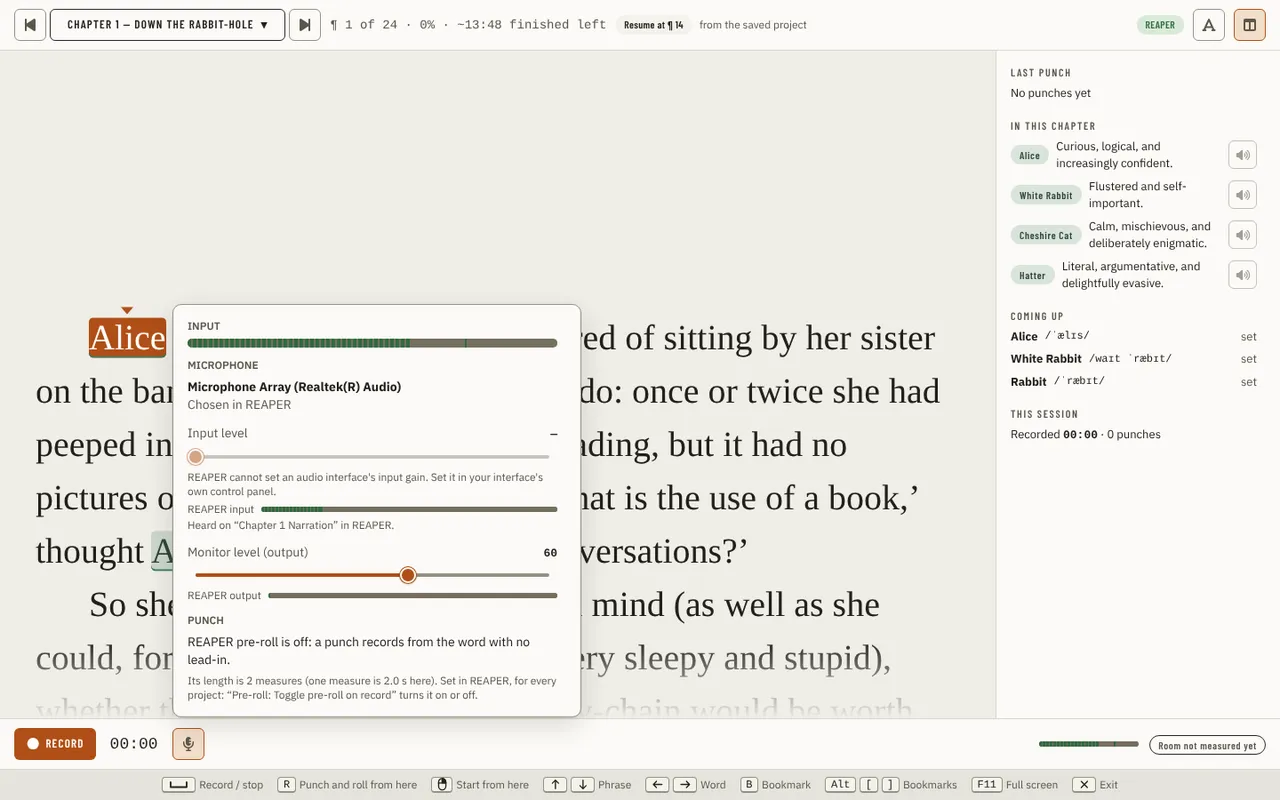
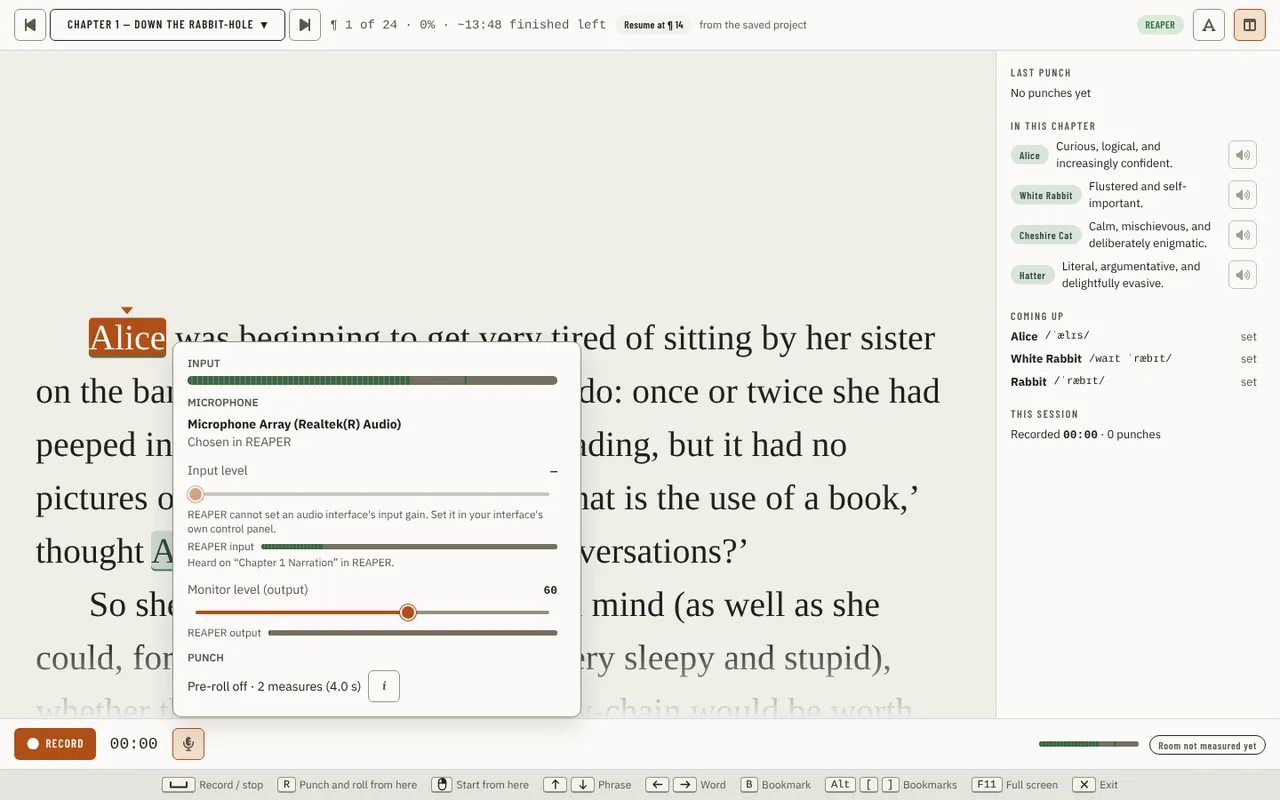
feat(booth): the Punch pre-roll is one short line, with the explanation behind an info button (#2323)

Changed region(s): [[0.125, 0.4062, 0.4688, 0.875]]

diff --git a/src/studio/ui/src/components/booth/frame/punchPreroll.test.tsx b/src/studio/ui/src/components/booth/frame/punchPreroll.test.tsx
@@ -93,21 +93,39 @@ describe('the Levels menu punch pre-roll', () => {
 describe("the Levels menu punch pre-roll is REAPER's own when REAPER has one", () => {
   const on: DawCapabilitySupport = { level: 'supported', available: true };
 
-  it("shows REAPER's pre-roll, off, with its length, where to set it, and never the app's seconds", async () => {
+  it("shows REAPER's pre-roll in one short line, off, with its length, and never the app's seconds", async () => {
     const { save, open } = menu('daw', {}, on);
     await open();
-    expect(await screen.findByText('REAPER pre-roll is off: a punch records from the word with no lead-in.')).toBeTruthy();
-    expect(screen.getByText(/Its length is 2 measures \(one measure is 2\.0 s here\)/)).toBeTruthy();
-    expect(screen.getByText(/“Pre-roll: Toggle pre-roll on record” turns it on or off/)).toBeTruthy();
+    expect(await screen.findByText('Pre-roll off · 2 measures (4.0 s)')).toBeTruthy();
+    expect(screen.queryByText(/a punch records from the word/)).toBeNull();
     expect(screen.queryByRole('textbox')).toBeNull();
     expect(save).not.toHaveBeenCalled();
   });
 
-  it('shows a pre-roll REAPER plays before recording, from the bar line', async () => {
+  it('keeps the explanation behind an info button that the keyboard opens and closes', async () => {
+    const { open } = menu('daw', {}, on);
+    await open();
+    const info = await screen.findByRole('button', { name: 'About REAPER’s pre-roll' });
+    expect(info.getAttribute('aria-expanded')).toBe('false');
+    expect(screen.queryByText(/One measure is 2\.0 s at the edit cursor/)).toBeNull();
+    while (document.activeElement !== info && document.activeElement !== document.body) await userEvent.tab();
+    expect(document.activeElement).toBe(info);
+    await userEvent.keyboard('{Enter}');
+    expect(info.getAttribute('aria-expanded')).toBe('true');
+    const note = screen.getByText(/One measure is 2\.0 s at the edit cursor\./);
+    expect(note.textContent).toContain('Off, a punch records from the word with no lead-in.');
+    expect(note.textContent).toContain('“Pre-roll: Toggle pre-roll on record”');
+    expect(document.getElementById(info.getAttribute('aria-controls') ?? '')?.contains(note)).toBe(true);
+    await userEvent.keyboard('{Enter}');
+    expect(screen.queryByText(/One measure is 2\.0 s at the edit cursor/)).toBeNull();
+  });
+
+  it('shows a pre-roll REAPER plays before recording, with its length in seconds', async () => {
     const read = vi.fn(async () => ({ ok: true, onRecord: true, measures: 1, measureSeconds: 1.8, message: '' }));
     const { open } = menu('daw', { dawPunchPreroll: read } as Partial<NarrationApi>, on);
     await open();
-    expect(await screen.findByText('REAPER pre-roll: 1 measure (one measure is 1.8 s here)')).toBeTruthy();
+    expect(await screen.findByText('Pre-roll on · 1 measure (1.8 s)')).toBeTruthy();
+    await userEvent.click(screen.getByRole('button', { name: 'About REAPER’s pre-roll' }));
     expect(screen.getByText(/plays from the bar line 1 measure or more before the word, then records from the word/)).toBeTruthy();
   });
 
@@ -116,10 +134,17 @@ describe("the Levels menu punch pre-roll is REAPER's own when REAPER has one", (
     const read = vi.fn(async () => ({ ok: true, onRecord, measures: 2, measureSeconds: 2, message: '' }));
     const { open } = menu('daw', { dawPunchPreroll: read } as Partial<NarrationApi>, on);
     await open();
-    await screen.findByText(/pre-roll is off/);
+    await screen.findByText(/^Pre-roll off/);
     onRecord = true;
     fireEvent.focus(window);
-    expect(await screen.findByText('REAPER pre-roll: 2 measures (one measure is 2.0 s here)')).toBeTruthy();
+    expect(await screen.findByText('Pre-roll on · 2 measures (4.0 s)')).toBeTruthy();
+  });
+
+  it('shows a fractional length and a long measure as they are', async () => {
+    const read = vi.fn(async () => ({ ok: true, onRecord: false, measures: 1.5, measureSeconds: 40, message: '' }));
+    const { open } = menu('daw', { dawPunchPreroll: read } as Partial<NarrationApi>, on);
+    await open();
+    expect(await screen.findByText('Pre-roll off · 1.5 measures (60.0 s)')).toBeTruthy();
   });
 
   it("says the capability's own sentence when REAPER has a pre-roll the app may not read now", async () => {

diff --git a/src/studio/ui/src/components/booth/frame/LevelsMenu.tsx b/src/studio/ui/src/components/booth/frame/LevelsMenu.tsx
@@ -11,6 +11,7 @@ import { Select } from '../../primitives/Select';
 import { NumberInput } from '../../primitives/NumberInput';
 import { Slider } from '../../primitives/Slider';
 import { Badge } from '../../primitives/StatusBadge';
+import { Collapsible, CollapsiblePanel, CollapsibleTrigger } from '../../primitives/Collapsible';
 import type { InputLevel } from './useLevels';
 import { useDawMeters, type DawMetersState } from './useDawMeters';
 import { useMonitorLevel } from './useMonitorLevel';
@@ -278,10 +279,12 @@ const measuresText = (measures: number): string => (measures === 1 ? '1 measure'
 
 /**
  * The DAW's own pre-roll (#2251 item 11): the one the Booth punches with, so the app shows it rather than a number of its own that could disagree. It
- * is read, never set: the narrator changes it in the DAW, and the menu says where.
+ * is read, never set: one short line with its state and length, and an "i" that opens, inside the menu, what it does and where to change it in the
+ * DAW. The note is a disclosure, not a popup: a popup portalled out of the menu would sit outside its dialog.
  */
 function DawPrerollRow({ dawName }: { dawName: string }) {
   const state = useDawPreroll();
+  const [about, setAbout] = useState(false);
   if (state.kind === 'loading') return <span className="text-xs text-[var(--text-muted)]">Reading the pre-roll from {dawName}…</span>;
   if (state.kind !== 'ready')
     return (
@@ -290,19 +293,23 @@ function DawPrerollRow({ dawName }: { dawName: string }) {
       </span>
     );
   const { preroll } = state;
-  const lead = `${measuresText(preroll.measures)} (one measure is ${oneDecimal(preroll.measureSeconds)} s here)`;
+  const length = measuresText(preroll.measures);
   return (
-    <>
-      <span className="text-sm text-[var(--text)]">
-        {preroll.onRecord ? `${dawName} pre-roll: ${lead}` : `${dawName} pre-roll is off: a punch records from the word with no lead-in.`}
+    <Collapsible open={about} onOpenChange={setAbout} className="flex flex-col gap-1">
+      <span className="flex items-center gap-2 text-sm text-[var(--text)]">
+        {`Pre-roll ${preroll.onRecord ? 'on' : 'off'} · ${length} (${oneDecimal(preroll.measures * preroll.measureSeconds)} s)`}
+        <CollapsibleTrigger label={`About ${dawName}’s pre-roll`}>
+          <span aria-hidden="true" className="font-serif text-sm leading-none font-bold italic">
+            i
+          </span>
+        </CollapsibleTrigger>
       </span>
-      <span className="text-xs text-[var(--text-muted)]">
-        {preroll.onRecord
-          ? `${dawName} plays from the bar line ${measuresText(preroll.measures)} or more before the word, then records from the word. `
-          : `Its length is ${lead}. `}
-        {`Set in ${dawName}, for every project: “Pre-roll: Toggle pre-roll on record” turns it on or off.`}
-      </span>
-    </>
+      <CollapsiblePanel className="text-xs text-[var(--text-muted)]">
+        {`${dawName}’s own pre-roll, the lead-in a punch uses. One measure is ${oneDecimal(preroll.measureSeconds)} s at the edit cursor. `}
+        {`On, ${dawName} plays from the bar line ${length} or more before the word, then records from the word. Off, a punch records from the word with no lead-in. `}
+        {`Change it in ${dawName}, for every project: “Pre-roll: Toggle pre-roll on record” turns it on or off.`}
+      </CollapsiblePanel>
+    </Collapsible>
   );
 }
 

diff --git a/src/studio/ui/tests/visual/drivers/booth.ts b/src/studio/ui/tests/visual/drivers/booth.ts
@@ -330,8 +330,20 @@ export const boothDrivers: Record<string, Driver> = {
     await readyToRecord(page, `${RECORD_ON}&mockDawMeters=unarmed`);
     await page.getByRole('button', { name: 'Levels' }).click();
     const menu = page.getByRole('dialog', { name: 'Levels' });
-    await menu.getByText('REAPER pre-roll is off: a punch records from the word with no lead-in.').waitFor();
+    await menu.getByText('Pre-roll off · 2 measures (4.0 s)').waitFor();
     await menu.getByText('No track is armed in REAPER: its input level shows once one is.').waitFor();
+  },
+  // The pre-roll's "i" opened from the keyboard: the note, inside the menu, says what the pre-roll does and where to change it in REAPER.
+  'levels-menu-preroll-about': async (page) => {
+    await readyToRecord(page, `${RECORD_ON}&mockDawMeters=unarmed`);
+    await page.getByRole('button', { name: 'Levels' }).click();
+    const menu = page.getByRole('dialog', { name: 'Levels' });
+    await menu.getByText('Pre-roll off · 2 measures (4.0 s)').waitFor();
+    const info = menu.getByRole('button', { name: 'About REAPER’s pre-roll' });
+    // Reached with the keyboard and opened with Enter, as a narrator without a mouse would.
+    for (let i = 0; i < 40 && !(await info.evaluate((el) => el === document.activeElement)); i++) await page.keyboard.press('Tab');
+    await page.keyboard.press('Enter');
+    await menu.getByText(/Pre-roll: Toggle pre-roll on record/).waitFor();
   },
   // Experimental DAW actions on, so the monitor slider is usable and this state differs from levels-menu.
   'levels-menu-daw-meters': async (page) => {

diff --git a/src/studio/ui/tests/visual/catalog/booth.ts b/src/studio/ui/tests/visual/catalog/booth.ts
@@ -216,7 +216,14 @@ export const boothStates: StateEntry[] = [
     page: 'booth',
     state: 'levels-menu-preroll',
     description:
-      "Booth, the Levels menu open (no Experimental switch needed): the Punch part is REAPER's own pre-roll, read only: off on record, 2 measures, one measure in seconds at the cursor, and where it is set in REAPER; with no track armed in REAPER, so the input meter says so instead of a level",
+      'Booth, the Levels menu open (no Experimental switch needed): the Punch part is REAPER\'s own pre-roll, read only, in one line ("Pre-roll off · 2 measures (4.0 s)") with an info button for the explanation; with no track armed in REAPER, so the input meter says so instead of a level',
+    ...REFLOW,
+  },
+  {
+    page: 'booth',
+    state: 'levels-menu-preroll-about',
+    description:
+      'Booth, the Levels menu\'s Punch line ("Pre-roll off · 2 measures (4.0 s)") with its info button opened from the keyboard: the note under it, inside the menu, says what REAPER\'s pre-roll does, how long one measure is at the cursor, and where to change it in REAPER',
     ...REFLOW,
   },
   {

diff --git a/docs/operations/booth-acceptance.md b/docs/operations/booth-acceptance.md
@@ -96,7 +96,7 @@ Every Booth control that depends on a DAW or other integration, the input it rea
 | Listening microphone (Levels) | The DAW's input, the microphone list, the listening session's state | The listening session's state and the device list on open | The footer says why the text cannot follow | Named in Levels | n/a | n/a | A session that ends in an error (a microphone unplugged mid-take) says so in the footer; the take goes on and stops | Choose another microphone in Levels |
 | Other-project notice | The open project against the linked one (`bootstrap`'s `dawProjectMatches`), read with the capabilities | Focus, Check again, every 4 s while the notice is up or a take runs, every 15 s while Record is ready (REAPER sends no event when another project opens) | Not shown: the host reports no match while nothing is linked or the DAW is silent | The notice is gone | "Can't tell whether REAPER has the linked project open." and "Last checked N s ago" | The picker's own refusal, as a message | "The project could not be linked: …" | Link the open project, or open the linked one in the DAW, then Check again |
 | Levels: Monitor level (output) | `monitor_level` (REAPER's first hardware output), `dawMonitorLevel`, `dawSetMonitorLevel` | Read when the menu opens and on focus | Slider off with "Reading the level from the DAW…" | The level the DAW holds | Read again on focus | The capability's sentence, slider off | "Could not read the monitor level: …", "The monitor level could not be changed: …", the slider back on the confirmed level | Close and open the menu, or Experimental on in Settings |
-| Levels: Punch pre-roll | `punch_preroll` (REAPER's `preroll` and `prerollmeas`), `dawPunchPreroll`; with no DAW pre-roll, `Teleprompter.punch_preroll_seconds` | Read when the menu opens and on focus | "Reading the pre-roll from REAPER…" | REAPER's pre-roll: off, or its length in measures with one measure in seconds at the cursor, and where to change it in REAPER | Read again on focus | The capability's sentence in place of the reading | "Could not read the DAW's pre-roll: …" | Change it in REAPER and look at the window again |
+| Levels: Punch pre-roll | `punch_preroll` (REAPER's `preroll` and `prerollmeas`), `dawPunchPreroll`; with no DAW pre-roll, `Teleprompter.punch_preroll_seconds` | Read when the menu opens and on focus | "Reading the pre-roll from REAPER…" | REAPER's pre-roll in one line, "Pre-roll off · 2 measures (4.0 s)", with an info button that says what it does and where to change it in REAPER | Read again on focus | The capability's sentence in place of the reading | "Could not read the DAW's pre-roll: …" | Change it in REAPER and look at the window again |
 | Levels: Input level | `input_level`, unsupported on every engine | n/a | n/a | n/a | n/a | The capability's sentence under an off slider | n/a | Set it in the audio interface's own control panel |
 | Levels: the DAW's input and output meters | `daw_meters` (REAPER's master and first armed track), `dawMeters` | Read four times a second while the menu is open, one at a time | "Reading the levels from REAPER…" | The armed track's level under Input level, with its name, and the output under Monitor level; "No track is armed" with no input | "Can't tell: the DAW's levels were last heard N s ago" after two seconds without an answer | The capability's sentence once; no switch, since the meters only read | The DAW's own sentence under the input meter, "Could not read the DAW's levels: …" | Arm the track in REAPER, or **Turn on in Settings** |
 | Speech-model notice | `assetsList` (manifests only) | On open, on focus, after a download | No notice | No notice | n/a | n/a | A failed read claims nothing; the first start asks, as before | Download in Settings, or press Space and be asked |

diff --git a/docs/guides/using-the-app/booth.md b/docs/guides/using-the-app/booth.md
@@ -74,12 +74,14 @@ they last heard it instead of showing an old level. The meters only read, so the
 The monitor slider changes REAPER, so it is an Experimental DAW action: while those are off, the slider is off and **Turn on in
 Settings** opens the switch.
 
-**Punch** shows the lead-in you hear before a punch. With REAPER it is REAPER's own pre-roll, the one the punch really uses. The menu
-reads it from REAPER: whether REAPER plays it before recording, and its length in measures, with how long one measure is at the edit
-cursor. With pre-roll on, REAPER plays from the bar line at or before that many measures before the word, then records from the
-word. With it off, a punch records from the word with no lead-in. Change it in REAPER: "Pre-roll: Toggle pre-roll on record" turns
-it on or off, and it applies to every project. The menu reads it again when you come back to the window. It needs no switch: the
-app only reads it.
+**Punch** shows the lead-in you hear before a punch. With REAPER it is REAPER's own pre-roll, the one the punch really uses, in
+one line: whether it is on and its length, for example **Pre-roll off · 2 measures (4.0 s)**. The seconds are the measures at the
+tempo at the edit cursor. Press the **i** beside it (or Tab to it and press Enter) to read what it does under the line: with pre-roll on, REAPER plays from the
+bar line at or before that many measures before the word, then records from the word; with it off, a punch records from the word
+with no lead-in. Change it in REAPER: "Pre-roll: Toggle pre-roll on record" turns it on or off, and it applies to every project.
+The menu reads it again when you come back to the window. It needs no switch: the app only reads it.
+
+![Booth - the pre-roll's info note: what REAPER's pre-roll does and where to change it](../../images/ui/booth-levels-menu-preroll-about.webp)
 
 With a DAW that has no pre-roll of its own, **Punch pre-roll (seconds)** sets how long before the word **R** starts the DAW (0 to
 10, in half seconds), for every project on this computer. It is the same setting as **Punch pre-roll** under **Set on a page** in
@@ -87,7 +89,7 @@ With a DAW that has no pre-roll of its own, **Punch pre-roll (seconds)** sets ho
 
 ![Booth - the Levels menu: the input level, the microphone the text listens to, and REAPER's own meters and pre-roll](../../images/ui/booth-levels-menu.webp)
 
-![Booth - the Levels menu: REAPER's own pre-roll, read from REAPER, and where to change it](../../images/ui/booth-levels-menu-preroll.webp)
+![Booth - the Levels menu: REAPER's own pre-roll in one line, read from REAPER](../../images/ui/booth-levels-menu-preroll.webp)
 
 ![Booth - the Levels menu showing REAPER's own input level (the armed track) and output level under the two sliders](../../images/ui/booth-levels-menu-daw-meters.webp)
 

diff --git a/docs/reference/daw/capabilities.md b/docs/reference/daw/capabilities.md
@@ -414,7 +414,7 @@ Facts about REAPER, Audacity and the built-in recorder are copied from the pages
 - **REAPER:** `punch_preroll`, Supported (`narration_preroll.lua`). Supported by the owner's decision on [#2251](https://github.com/countrymanprime/narration-studio/issues/2251) (2026-10-24), not on a harness result: "these should be on by default. if we are talking about seeing what settings/levels input and output are on, we should be able to see that when connected to a daw". It only reads, so it needs no switch. The length is the `prerollmeas` configuration variable and the switch is bit 2 of `preroll` (bit 1 is pre-roll on play), the bit "Pre-roll: Toggle pre-roll on record" (action 41819) shows; both are read with `get_config_var_string`. REAPER plays from the bar line at or before the edit cursor minus that many measures, and records from the cursor ([REAPER](reaper.md#what-reaper-was-seen-to-do)).
 - **Audacity:** not yet available. Audacity 3 keeps a punch-and-roll pre-roll in seconds in its preferences; the app does not read it.
 - **Built-in recorder:** unsupported: it does not punch.
-- **Binding:** `DawPunchPreroll()` (`src/studio/desktop/bindings_daw_preroll.go`) answers `{"ok", "onRecord", "measures", "measureSeconds", "message"}`; a refusal is `ok` false with the sentence. The Booth's Levels menu shows REAPER's pre-roll, in measures, and where to change it in REAPER; with an engine that declares none, the menu keeps the app's own `Teleprompter.punch_preroll_seconds`.
+- **Binding:** `DawPunchPreroll()` (`src/studio/desktop/bindings_daw_preroll.go`) answers `{"ok", "onRecord", "measures", "measureSeconds", "message"}`; a refusal is `ok` false with the sentence. The Booth's Levels menu shows REAPER's pre-roll in one line, its state and length in measures and seconds, with an info button that says where to change it in REAPER; with an engine that declares none, the menu keeps the app's own `Teleprompter.punch_preroll_seconds`.
 - **Checked:** harness (`preroll_test.lua`). REAPER 7.82 on Linux with the JACK dummy device, 2026-10-24 ([note](../../research/reaper-preroll-2026-10-24.md)): a fresh configuration read off and 2 measures, and the command changed nothing; with 1.5 measures on record set in REAPER it read them, and a take played in from the 6 s bar line before a cursor at 10 s and was recorded from 10 s. Not run: Windows, a real audio device, a tempo change inside the pre-roll.
 
 ### `daw_meters`
